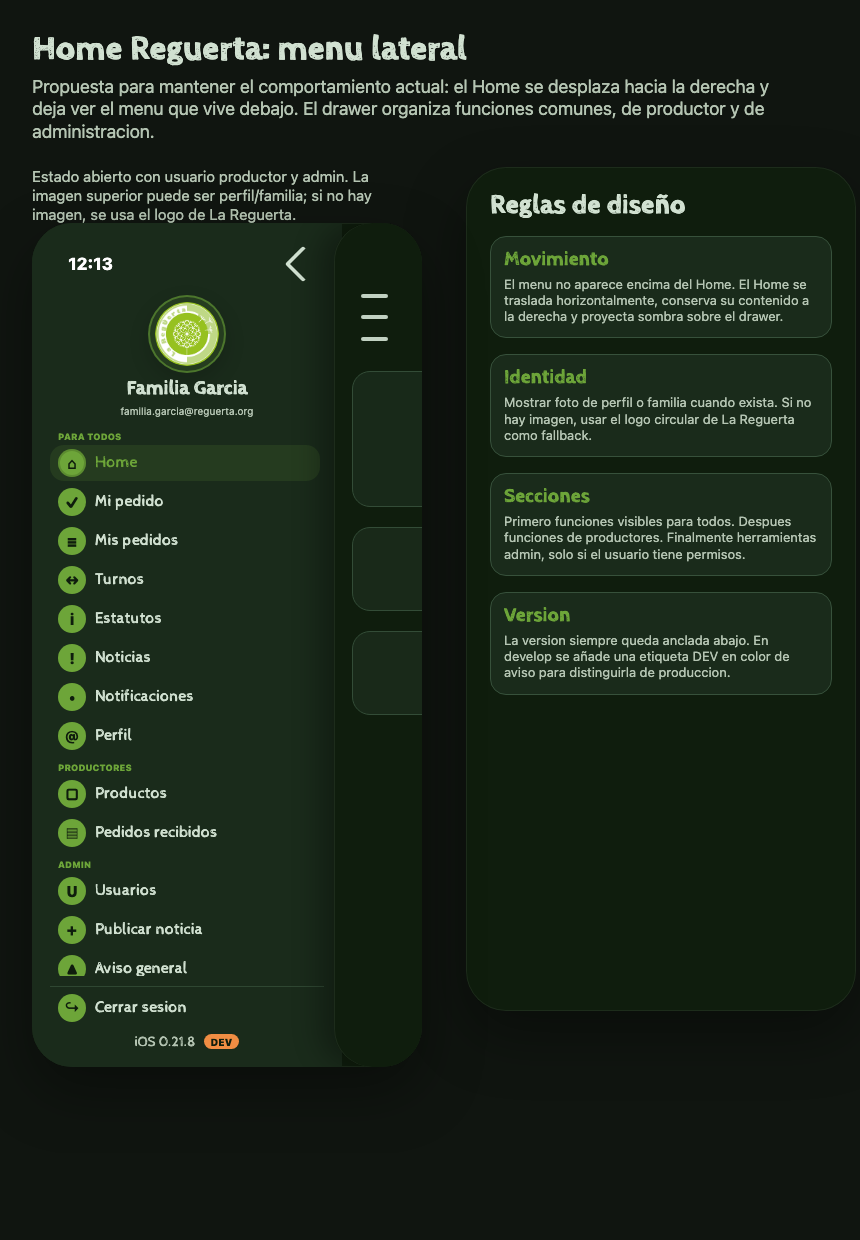
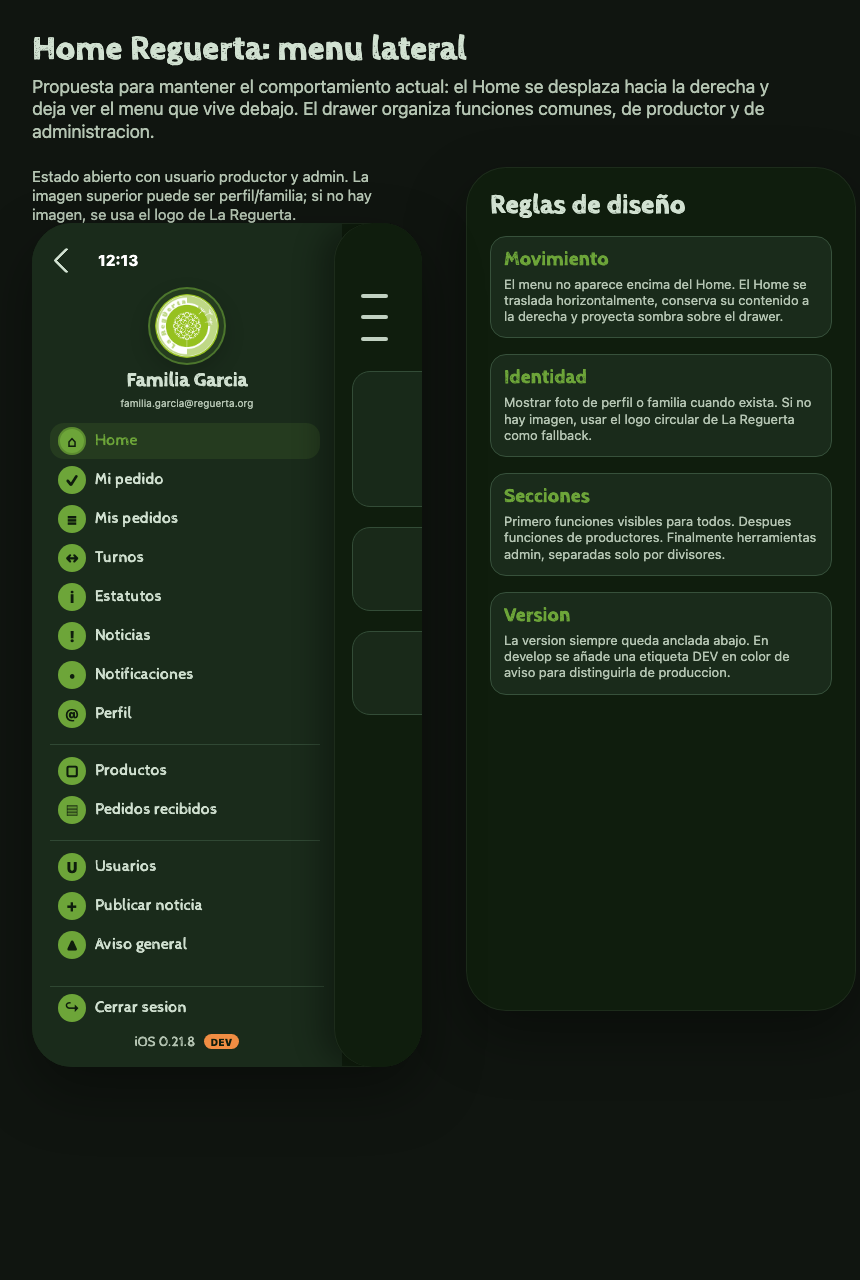
📝 docs(design): refine home drawer proposal

diff --git a/docs/design/home-dashboard/drawer-underlay-proposal.html b/docs/design/home-dashboard/drawer-underlay-proposal.html
@@ -113,20 +113,20 @@
     }
 
     .drawer-top {
-      height: 42px;
+      height: 34px;
       display: flex;
       align-items: center;
-      justify-content: space-between;
+      justify-content: flex-start;
+      gap: 16px;
       font-family: system-ui, sans-serif;
       color: #fff;
-      font-size: 17px;
+      font-size: 15px;
       font-weight: 800;
-      padding-inline: 18px 0;
     }
 
     .back {
-      width: 42px;
-      height: 42px;
+      width: 32px;
+      height: 32px;
       display: grid;
       place-items: center;
       color: var(--text-primary);
@@ -134,10 +134,10 @@
 
     .back::before {
       content: "";
-      width: 22px;
-      height: 22px;
-      border-left: 4px solid currentColor;
-      border-bottom: 4px solid currentColor;
+      width: 16px;
+      height: 16px;
+      border-left: 3px solid currentColor;
+      border-bottom: 3px solid currentColor;
       transform: rotate(45deg);
       border-radius: 3px;
     }
@@ -197,14 +197,10 @@
       gap: 3px;
     }
 
-    .section-title {
-      color: var(--action-primary);
-      font-family: system-ui, sans-serif;
-      font-size: 9px;
-      font-weight: 900;
-      letter-spacing: 0;
-      text-transform: uppercase;
-      padding-left: 8px;
+    .section + .section {
+      margin-top: 4px;
+      padding-top: 8px;
+      border-top: 1px solid rgba(55, 81, 59, 0.78);
     }
 
     .item {
@@ -419,12 +415,12 @@
 
     <section class="stage">
       <div>
-        <p class="caption">Estado abierto con usuario productor y admin. La imagen superior puede ser perfil/familia; si no hay imagen, se usa el logo de La Reguerta.</p>
+          <p class="caption">Estado abierto con usuario productor y admin. La imagen superior puede ser perfil/familia; si no hay imagen, se usa el logo de La Reguerta.</p>
         <div class="phone">
           <aside class="drawer">
             <div class="drawer-top">
-              <span>12:13</span>
               <span class="back" aria-hidden="true"></span>
+              <span>12:13</span>
             </div>
 
             <section class="identity">
@@ -437,7 +433,6 @@
 
             <nav class="menu-scroll">
               <section class="section">
-                <p class="section-title">Para todos</p>
                 <div class="item selected"><span class="icon">⌂</span><span>Home</span></div>
                 <div class="item"><span class="icon">✓</span><span>Mi pedido</span></div>
                 <div class="item"><span class="icon">≡</span><span>Mis pedidos</span></div>
@@ -449,13 +444,11 @@
               </section>
 
               <section class="section">
-                <p class="section-title">Productores</p>
                 <div class="item"><span class="icon">□</span><span>Productos</span></div>
                 <div class="item"><span class="icon">▤</span><span>Pedidos recibidos</span></div>
               </section>
 
               <section class="section">
-                <p class="section-title">Admin</p>
                 <div class="item"><span class="icon">U</span><span>Usuarios</span></div>
                 <div class="item"><span class="icon">＋</span><span>Publicar noticia</span></div>
                 <div class="item"><span class="icon">▲</span><span>Aviso general</span></div>
@@ -497,7 +490,7 @@
         </section>
         <section class="note">
           <h3>Secciones</h3>
-          <p>Primero funciones visibles para todos. Despues funciones de productores. Finalmente herramientas admin, solo si el usuario tiene permisos.</p>
+          <p>Primero funciones visibles para todos. Despues funciones de productores. Finalmente herramientas admin, separadas solo por divisores.</p>
         </section>
         <section class="note">
           <h3>Version</h3>

diff --git a/docs/design/home-dashboard/drawer-underlay-proposal.md b/docs/design/home-dashboard/drawer-underlay-proposal.md
@@ -22,11 +22,13 @@ Esto evita que el menu parezca un modal superpuesto y conserva la sensacion de p
 
 ## Secciones
 
-Orden recomendado:
+Orden recomendado, sin titulos visibles en la UI:
 
 1. `Para todos`
 2. `Productores`
 3. `Admin`
+
+Usar divisores sutiles entre grupos. Los nombres de grupo son criterio de organizacion y permisos, no necesariamente texto visible.
 
 ### Para todos
 
@@ -76,5 +78,6 @@ Puntos a cuidar:
 
 - No convertir el drawer en overlay modal.
 - La capa del Home debe ser la que se anima.
+- Mantener el boton de cierre pequeno y alineado a la izquierda.
 - Preservar cierre por boton atras, toque fuera o gesto horizontal si ya existe.
 - Mantener secciones ocultas cuando el usuario no tenga permisos.

diff --git a/CHANGELOG.md b/CHANGELOG.md
@@ -55,6 +55,7 @@ All notable changes to this project will be documented in this file.
 
 ### Documentation
 
+- 2026-05-03 | 📝 docs(design): refine home drawer proposal
 - 2026-05-03 | 📝 docs(design): add home drawer proposal
 - 2026-05-03 | 📝 docs(design): add home dashboard proposal
 - 2026-04-19 | 📝 docs(changelog): reorder entries by recency
